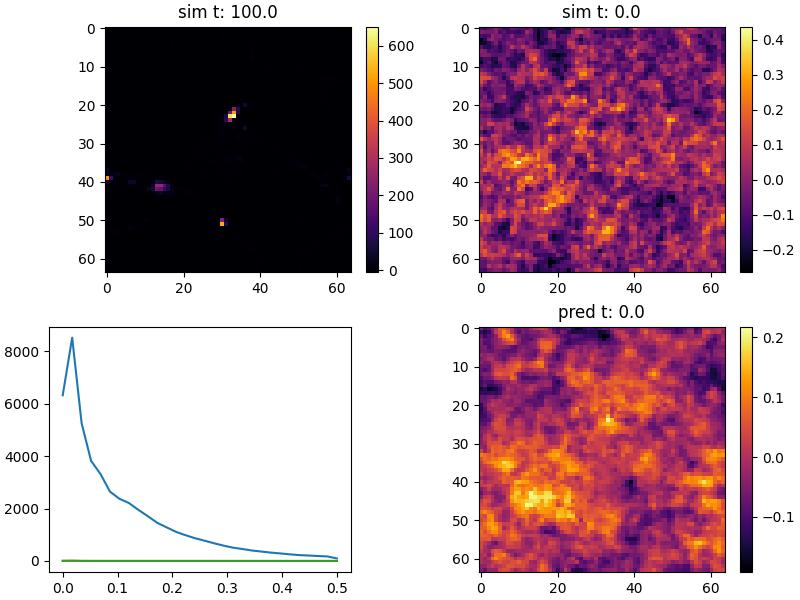
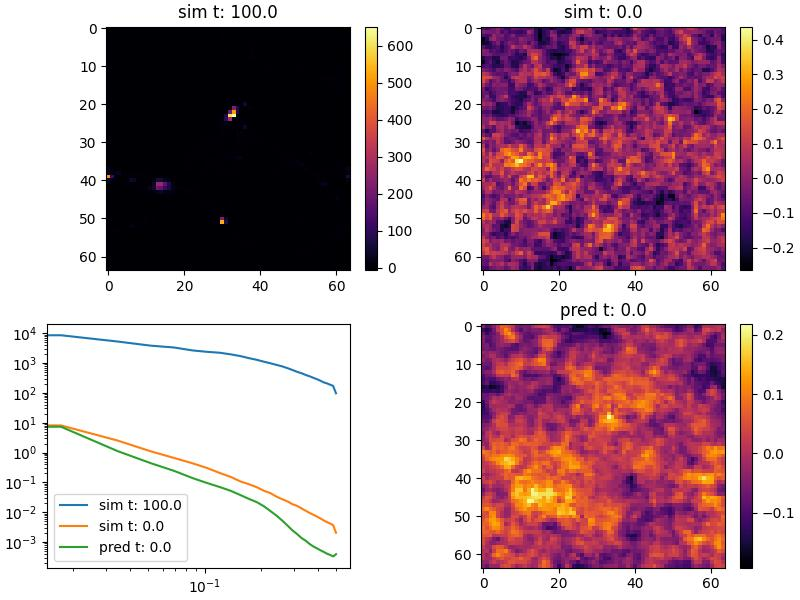
baseline model is hard to beat

diff --git a/src/visualize/sequence.py b/src/visualize/sequence.py
@@ -37,9 +37,9 @@ def sequence(
         k, power = power_spectrum(sequence[frame, :, :, :, 0])
         ax_power.plot(k, power, label=f"sim t: {timeline[frame]}")
 
-        if frame < frames - 1:
-            k, power = power_spectrum(sequence_prediction[frame, :, :, :, 0])
-            ax_power.plot(k, power, label=f"pred t: {timeline[frame]}")
+        # if frame < frames - 1:
+        #     k, power = power_spectrum(sequence_prediction[frame, :, :, :, 0])
+        #     ax_power.plot(k, power, label=f"pred t: {timeline[frame]}")
         
         if frame > 0:
             ax_pred = grid[1, frame]
@@ -47,11 +47,17 @@ def sequence(
             im_pred = ax_pred.imshow(sequence_prediction[frame, grid_size // 2, : , :], cmap='inferno')
             fig.colorbar(im_pred, ax=ax_pred, orientation='vertical', location='right')
 
+            k, power = power_spectrum(sequence_prediction[frame, :, :, :, 0])
+            ax_power.plot(k, power, label=f"pred t: {timeline[frame]}")
+
         ax_seq = grid[0, frame]
         ax_seq.set_title(f"sim t: {timeline[frame]}")
         im_seq = ax_seq.imshow(sequence[frame, grid_size // 2, : , :], cmap='inferno')
         fig.colorbar(im_seq, ax=ax_seq, orientation='vertical', location='right')
 
+    ax_power.set_yscale('log')
+    ax_power.set_xscale('log')
+    ax_power.legend()
     
 
     plt.savefig(ouput_file)

diff --git a/src/nn/trainer.py b/src/nn/trainer.py
@@ -5,14 +5,13 @@ import equinox as eqx
 from functools import partial
 import time
 
+@partial(jax.jit)
+def mse(prediction : jax.Array, truth : jax.Array):
+    return jnp.mean((jax.nn.sigmoid(prediction) - jax.nn.sigmoid(truth))**2)
 
 # @partial(jax.jit)
 # def mse(prediction : jax.Array, truth : jax.Array):
-#     return jnp.mean((jax.nn.sigmoid(prediction) - jax.nn.sigmoid(truth))**2)
-
-@partial(jax.jit)
-def mse(prediction : jax.Array, truth : jax.Array):
-    return jnp.mean((prediction - truth) ** 2)
+#     return jnp.mean((prediction - truth) ** 2)
 
 @partial(jax.jit)
 def baseline_loss(
